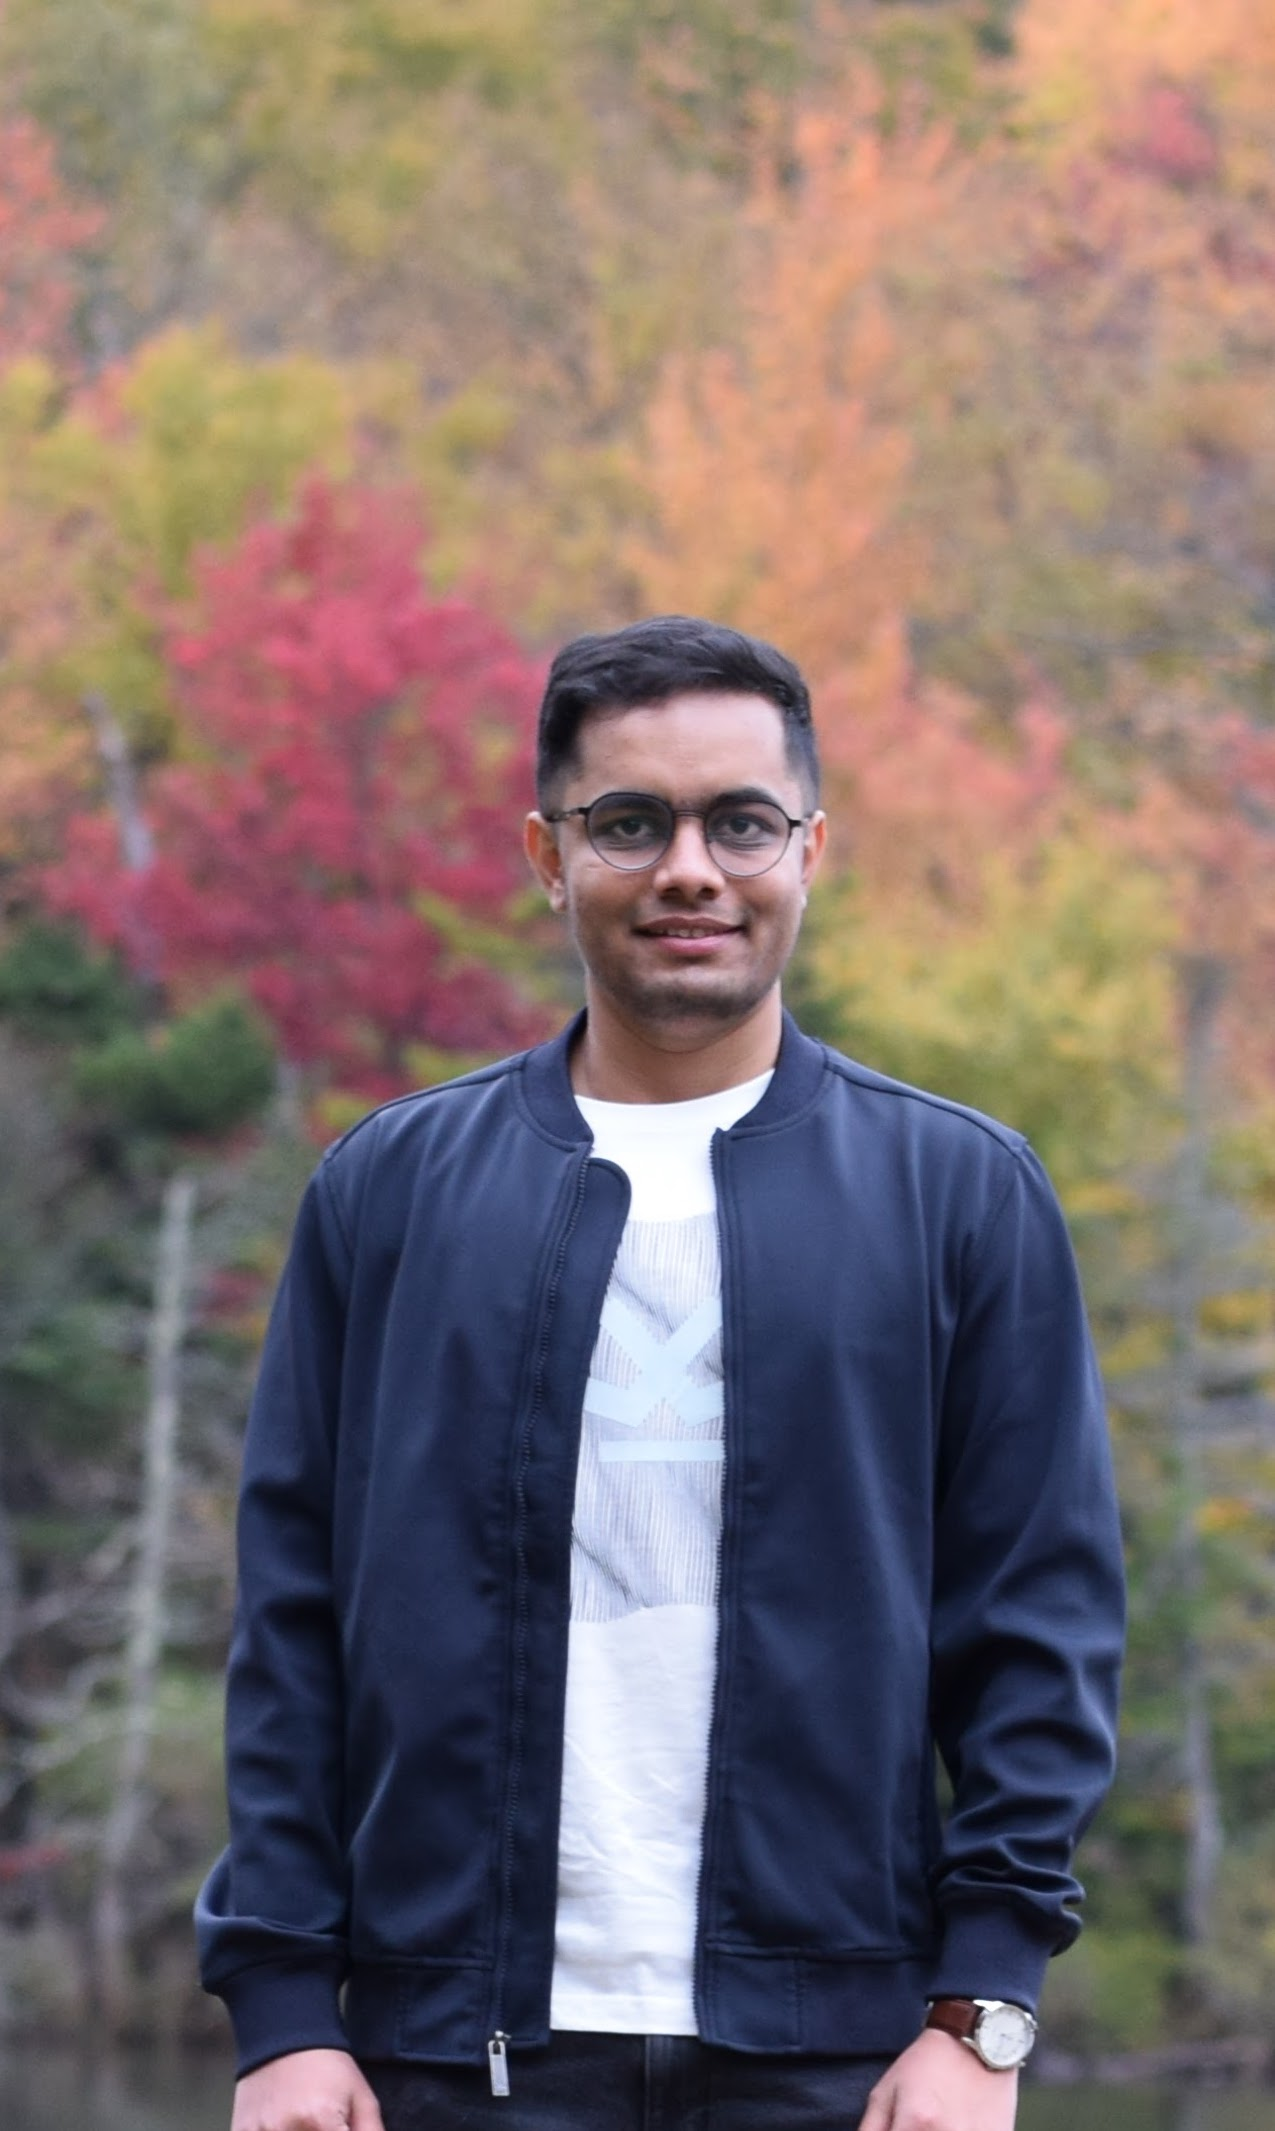
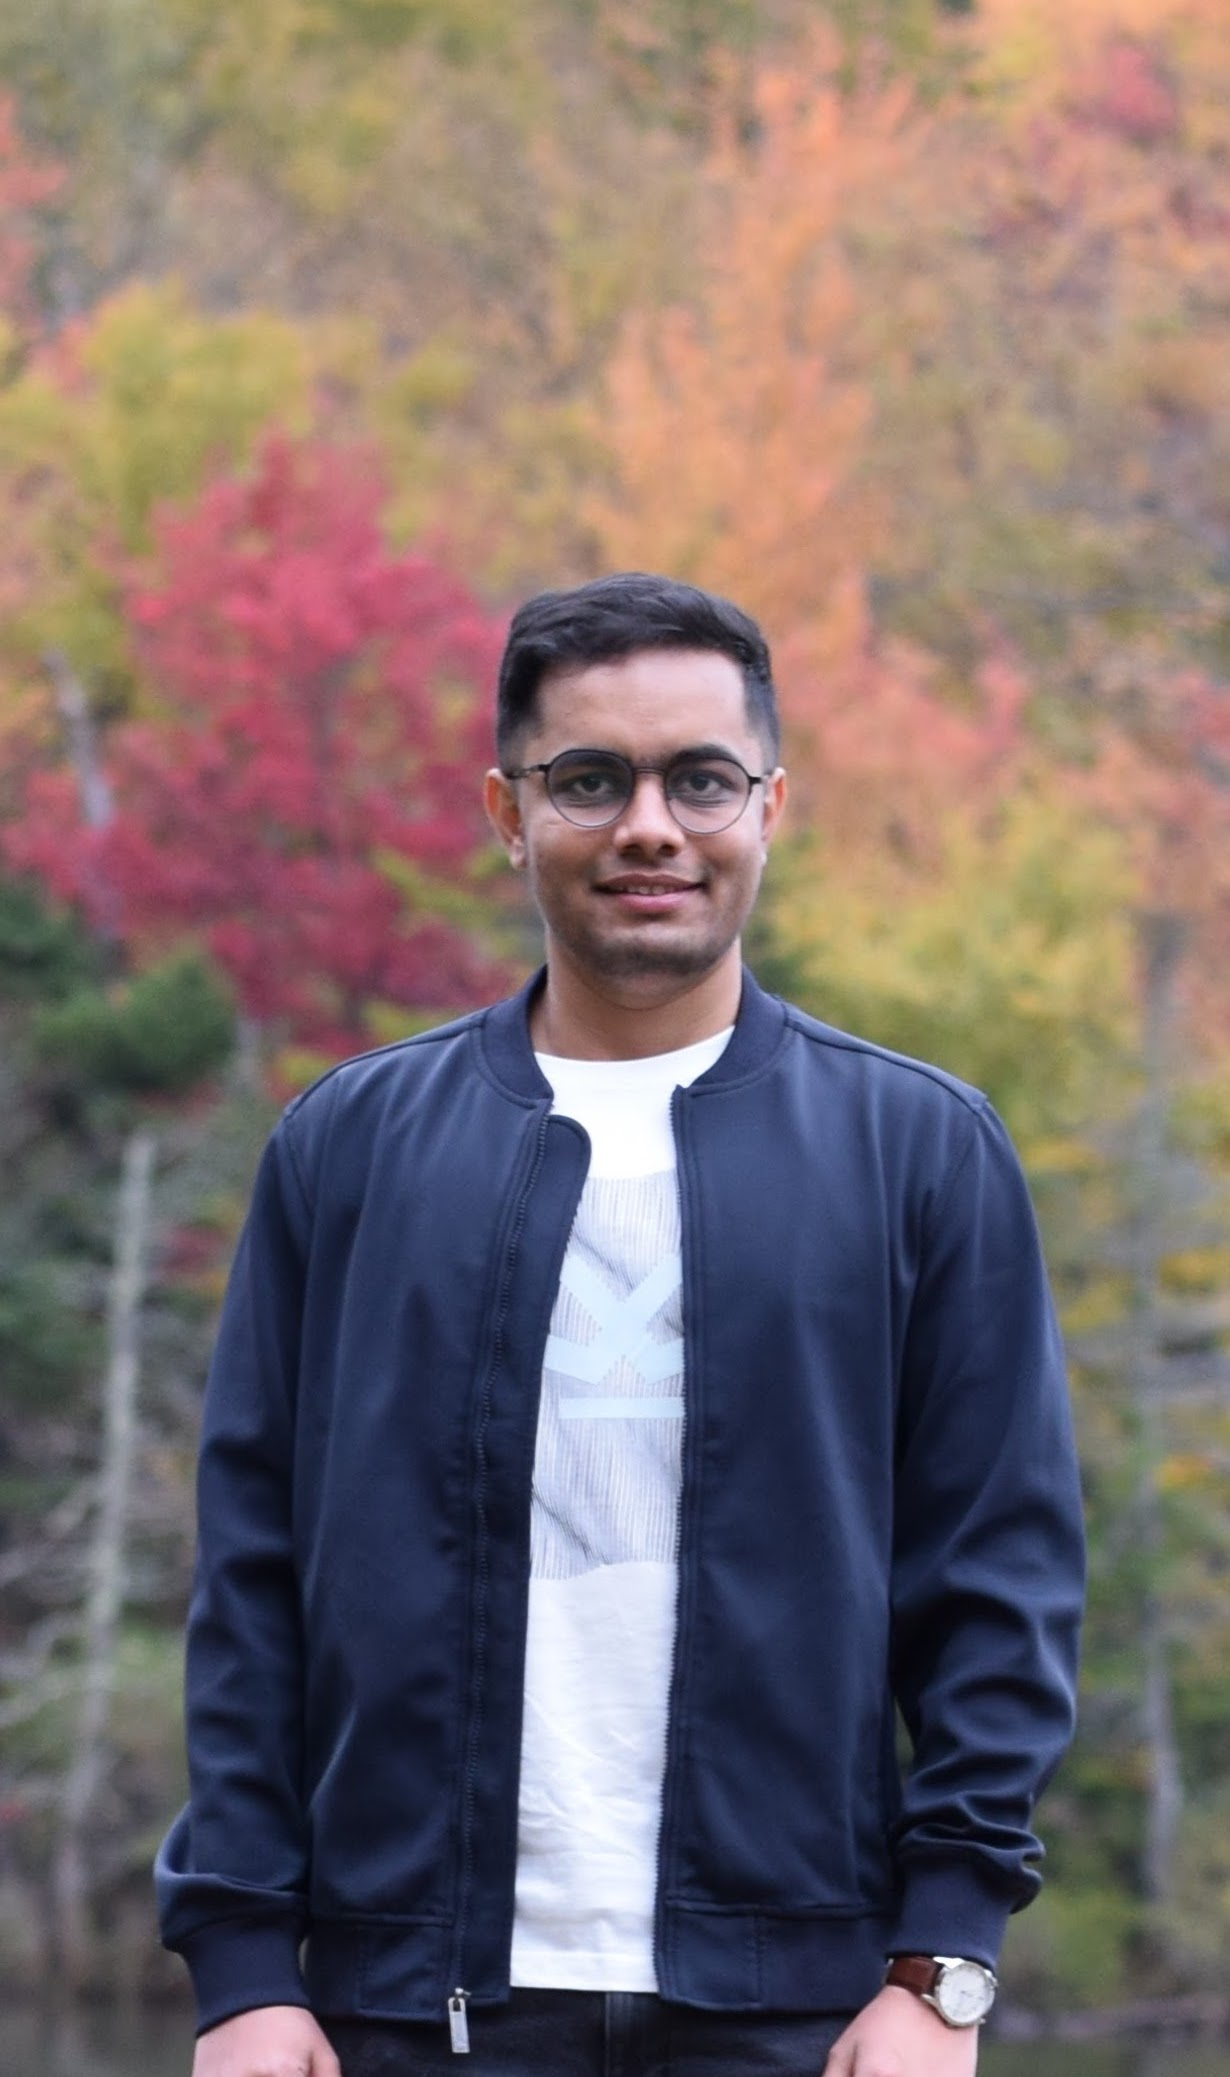
..

diff --git a/index.html b/index.html
@@ -33,7 +33,7 @@
 
         <div class="posts-wrapper">
             <div class="post">
-                <img src='Aditya.jpeg' alt="A picture of Aditya Parashar" style="float:right; width: 320px;" />
+                <img src='Aditya.jpeg' alt="A picture of Aditya Parashar" style="float:right; width: 290px;" />
 
                 <h1>Aditya Parashar</h1>
 
